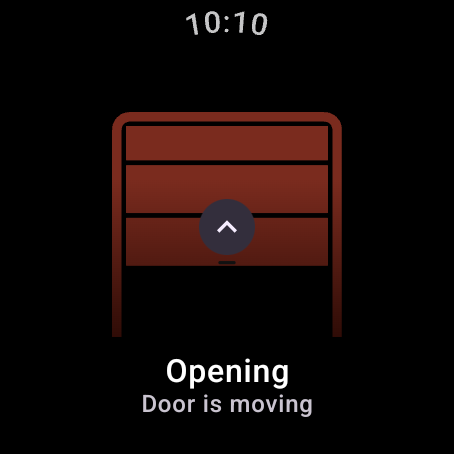
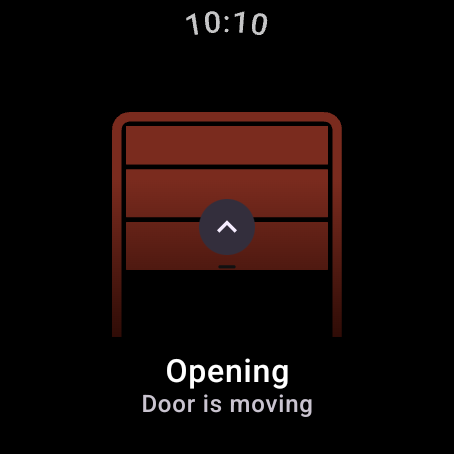
feat(wear): calm connecting presentation before the first door event
The wear side of the onboarding polish (phone side: #1101). Cold start
used to render the gray half-open door with a ⚠ badge labeled 'Unknown'
before the first fetch returned — reading as broken when nothing is wrong.

- HeroScreenContent gains required hasDoorData; false only when no door
  event exists at all. The label then reads 'Connecting…' and the door's
  warning badge is withheld (new WearGarageIcon.suppressWarningOverlay,
  mirroring the phone's GarageIcon). A real server-reported UNKNOWN event
  keeps the full warning presentation.
- New 'connecting' fixture stage + capture; gallery now has 8 stages.

diff --git a/MobileGarage/wearApp/src/main/java/com/chriscartland/garage/wear/ui/HeroScreen.kt b/MobileGarage/wearApp/src/main/java/com/chriscartland/garage/wear/ui/HeroScreen.kt
@@ -126,6 +126,7 @@ fun HeroScreen(
     HeroScreenContent(
         doorPosition = doorEvent?.doorPosition ?: DoorPosition.UNKNOWN,
         lastChangeTimeSeconds = doorEvent?.lastChangeTimeSeconds,
+        hasDoorData = doorEvent != null,
         authState = authState,
         buttonState = buttonState,
         isHolding = isHolding,
@@ -168,6 +169,7 @@ fun HeroScreen(
 fun HeroScreenContent(
     doorPosition: DoorPosition,
     lastChangeTimeSeconds: Long?,
+    hasDoorData: Boolean,
     authState: AuthState,
     buttonState: RemoteButtonState,
     isHolding: Boolean,
@@ -225,6 +227,7 @@ fun HeroScreenContent(
                     doorPosition = doorPosition,
                     lastChangeTimeSeconds = lastChangeTimeSeconds,
                     animationMemory = animationMemory,
+                    suppressWarningOverlay = !hasDoorData,
                     onDoorTap = onDoorTap,
                     onHoldStart = onHoldStart,
                     onHoldEnd = onHoldEnd,
@@ -239,7 +242,7 @@ fun HeroScreenContent(
                     horizontalAlignment = Alignment.CenterHorizontally,
                 ) {
                     Text(
-                        text = HeroScreenMappers.doorStateLabel(doorPosition),
+                        text = HeroScreenMappers.doorStateLabel(doorPosition, hasDoorData),
                         style = MaterialTheme.typography.titleMedium,
                         textAlign = TextAlign.Center,
                     )
@@ -267,13 +270,14 @@ fun HeroScreenContent(
                         doorPosition = doorPosition,
                         lastChangeTimeSeconds = lastChangeTimeSeconds,
                         animationMemory = animationMemory,
+                        suppressWarningOverlay = !hasDoorData,
                         onDoorTap = onDoorTap,
                         onHoldStart = onHoldStart,
                         onHoldEnd = onHoldEnd,
                         modifier = Modifier.fillMaxWidth(DOOR_WIDTH_FRACTION_SIGNED_OUT),
                     )
                     Text(
-                        text = HeroScreenMappers.doorStateLabel(doorPosition),
+                        text = HeroScreenMappers.doorStateLabel(doorPosition, hasDoorData),
                         style = MaterialTheme.typography.titleMedium,
                         textAlign = TextAlign.Center,
                     )
@@ -370,6 +374,7 @@ private fun GarageDoorTarget(
     doorPosition: DoorPosition,
     lastChangeTimeSeconds: Long?,
     animationMemory: DoorAnimationMemory,
+    suppressWarningOverlay: Boolean,
     onDoorTap: () -> Unit,
     onHoldStart: () -> Unit,
     onHoldEnd: () -> Unit,
@@ -397,6 +402,7 @@ private fun GarageDoorTarget(
             animationMemory = animationMemory,
             lastChangeTimeSeconds = lastChangeTimeSeconds,
             color = WearDoorColors.forPosition(doorPosition),
+            suppressWarningOverlay = suppressWarningOverlay,
             modifier = Modifier.fillMaxSize(),
         )
     }
@@ -404,6 +410,22 @@ private fun GarageDoorTarget(
 
 /** String/label mappers for the hero screen. */
 private object HeroScreenMappers {
+    /**
+     * No door event at all (cold start) renders the calm "Connecting…"
+     * headline — mirrors the phone Home card. A real server-reported
+     * UNKNOWN event (hasDoorData = true) keeps the "Unknown" label.
+     */
+    @Composable
+    fun doorStateLabel(
+        doorPosition: DoorPosition,
+        hasDoorData: Boolean,
+    ): String =
+        if (!hasDoorData) {
+            stringResource(R.string.door_state_connecting)
+        } else {
+            doorStateLabel(doorPosition)
+        }
+
     @Composable
     fun doorStateLabel(doorPosition: DoorPosition): String =
         stringResource(
@@ -442,6 +464,7 @@ private fun HeroScreenContentArmedPreview() {
         HeroScreenContent(
             doorPosition = DoorPosition.CLOSED,
             lastChangeTimeSeconds = null,
+            hasDoorData = true,
             authState = AuthState.Authenticated(
                 User(
                     name = DisplayName("Preview User"),
@@ -467,6 +490,7 @@ private fun HeroScreenContentSignedOutPreview() {
         HeroScreenContent(
             doorPosition = DoorPosition.OPEN,
             lastChangeTimeSeconds = null,
+            hasDoorData = true,
             authState = AuthState.Unauthenticated,
             buttonState = RemoteButtonState.Ready,
             isHolding = false,

diff --git a/MobileGarage/wearApp/src/main/java/com/chriscartland/garage/wear/ui/WearGarageIcon.kt b/MobileGarage/wearApp/src/main/java/com/chriscartland/garage/wear/ui/WearGarageIcon.kt
@@ -65,6 +65,12 @@ import com.chriscartland.garage.wear.R
  *
  * Renders statically at `staticPositionFor` under inspection mode so previews
  * are deterministic.
+ *
+ * @param suppressWarningOverlay set `true` only for the no-data cold-start
+ *   presentation (mirrors the phone's `GarageIcon`): the door shape still
+ *   renders (gray, midway) but the ⚠ badge is withheld — nothing is wrong,
+ *   the watch just hasn't heard from the server yet. Real UNKNOWN events
+ *   (with data) keep the badge.
  */
 @Composable
 fun WearGarageIcon(
@@ -73,6 +79,7 @@ fun WearGarageIcon(
     modifier: Modifier = Modifier,
     color: Color = Color(0xFF3C5232),
     lastChangeTimeSeconds: Long? = null,
+    suppressWarningOverlay: Boolean = false,
 ) {
     if (LocalInspectionMode.current) {
         DoorIconBox(
@@ -80,6 +87,7 @@ fun WearGarageIcon(
             doorPosition = doorPosition,
             modifier = modifier,
             color = color,
+            suppressWarningOverlay = suppressWarningOverlay,
         )
     } else {
         AnimatedDoorIcon(
@@ -88,6 +96,7 @@ fun WearGarageIcon(
             animationMemory = animationMemory,
             modifier = modifier,
             color = color,
+            suppressWarningOverlay = suppressWarningOverlay,
         )
     }
 }
@@ -99,6 +108,7 @@ private fun AnimatedDoorIcon(
     animationMemory: DoorAnimationMemory,
     modifier: Modifier,
     color: Color,
+    suppressWarningOverlay: Boolean,
 ) {
     // Same replay-once-per-motion-event logic as the phone icon (ADR-025).
     val key = DoorMotionKey(doorPosition, lastChangeTimeSeconds)
@@ -140,6 +150,7 @@ private fun AnimatedDoorIcon(
         doorPosition = doorPosition,
         modifier = modifier,
         color = color,
+        suppressWarningOverlay = suppressWarningOverlay,
     )
 }
 
@@ -149,6 +160,7 @@ private fun DoorIconBox(
     doorPosition: DoorPosition,
     modifier: Modifier,
     color: Color,
+    suppressWarningOverlay: Boolean = false,
 ) {
     Box(
         modifier = modifier.aspectRatio(GarageDoorGeometry.ASPECT_RATIO),
@@ -169,10 +181,12 @@ private fun DoorIconBox(
                 imageVector = Icons.Filled.KeyboardArrowDown,
                 contentDescription = stringResource(R.string.cd_arrow_down),
             )
-            DoorOverlayKind.WARNING -> OverlayBadge(
-                imageVector = Icons.Filled.Warning,
-                contentDescription = stringResource(R.string.cd_warning),
-            )
+            DoorOverlayKind.WARNING -> if (!suppressWarningOverlay) {
+                OverlayBadge(
+                    imageVector = Icons.Filled.Warning,
+                    contentDescription = stringResource(R.string.cd_warning),
+                )
+            }
         }
     }
 }

diff --git a/MobileGarage/wearApp/src/debug/java/com/chriscartland/garage/wear/debug/ScreenshotStagesActivity.kt b/MobileGarage/wearApp/src/debug/java/com/chriscartland/garage/wear/debug/ScreenshotStagesActivity.kt
@@ -39,9 +39,10 @@ import com.chriscartland.garage.wear.ui.HeroScreenContent
  *
  * Launch (debug build only):
  *   adb shell am start -n com.chriscartland.garage.debug/com.chriscartland.garage.wear.debug.ScreenshotStagesActivity \
- *     -e stage closed|armed|holding|moving|open|signed_out|sign_in_error
+ *     -e stage connecting|closed|armed|holding|moving|open|signed_out|sign_in_error
  *
  * Stages mirror the hero interaction narrative:
+ *   connecting    — cold start, no door event yet: "Connecting…", no ⚠ badge
  *   closed        — green closed door, "Tap door to arm"
  *   armed         — armed with the faint hold ring, "Hold door to press"
  *   holding       — full hold ring ("ring filled, press about to fire").
@@ -65,6 +66,7 @@ class ScreenshotStagesActivity : ComponentActivity() {
                     HeroScreenContent(
                         doorPosition = fixture.doorPosition,
                         lastChangeTimeSeconds = null,
+                        hasDoorData = fixture.hasDoorData,
                         authState = fixture.authState,
                         buttonState = fixture.buttonState,
                         isHolding = fixture.isHolding,
@@ -86,10 +88,16 @@ class ScreenshotStagesActivity : ComponentActivity() {
         val authState: AuthState = SCREENSHOT_USER,
         val isHolding: Boolean = false,
         val signInError: Boolean = false,
+        val hasDoorData: Boolean = true,
     )
 
     private fun fixtureFor(stage: String): StageFixture =
         when (stage) {
+            STAGE_CONNECTING -> StageFixture(
+                DoorPosition.UNKNOWN,
+                RemoteButtonState.Ready,
+                hasDoorData = false,
+            )
             STAGE_ARMED -> StageFixture(DoorPosition.CLOSED, RemoteButtonState.AwaitingConfirmation)
             STAGE_HOLDING -> StageFixture(
                 DoorPosition.CLOSED,
@@ -114,6 +122,7 @@ class ScreenshotStagesActivity : ComponentActivity() {
 
     private companion object {
         const val STAGE_EXTRA = "stage"
+        const val STAGE_CONNECTING = "connecting"
         const val STAGE_CLOSED = "closed"
         const val STAGE_ARMED = "armed"
         const val STAGE_HOLDING = "holding"

diff --git a/MobileGarage/screenshots/store/wear/README.md b/MobileGarage/screenshots/store/wear/README.md
@@ -9,6 +9,7 @@ Captures are byte-stable across regens — a diff means a real visual change.
 
 | Stage | Capture | Shows |
 |---|---|---|
+| connecting | <img src="wear-connecting.png" width="180" alt="connecting"> | Cold start, no data yet: "Connecting…", no warning badge |
 | closed | <img src="wear-closed.png" width="180" alt="closed"> | Closed door, "Tap door to arm" |
 | armed | <img src="wear-armed.png" width="180" alt="armed"> | Armed: faint hold ring, "Hold door to press" |
 | holding | <img src="wear-holding.png" width="180" alt="holding"> | Hold completing: full radial ring, the instant before the press fires |